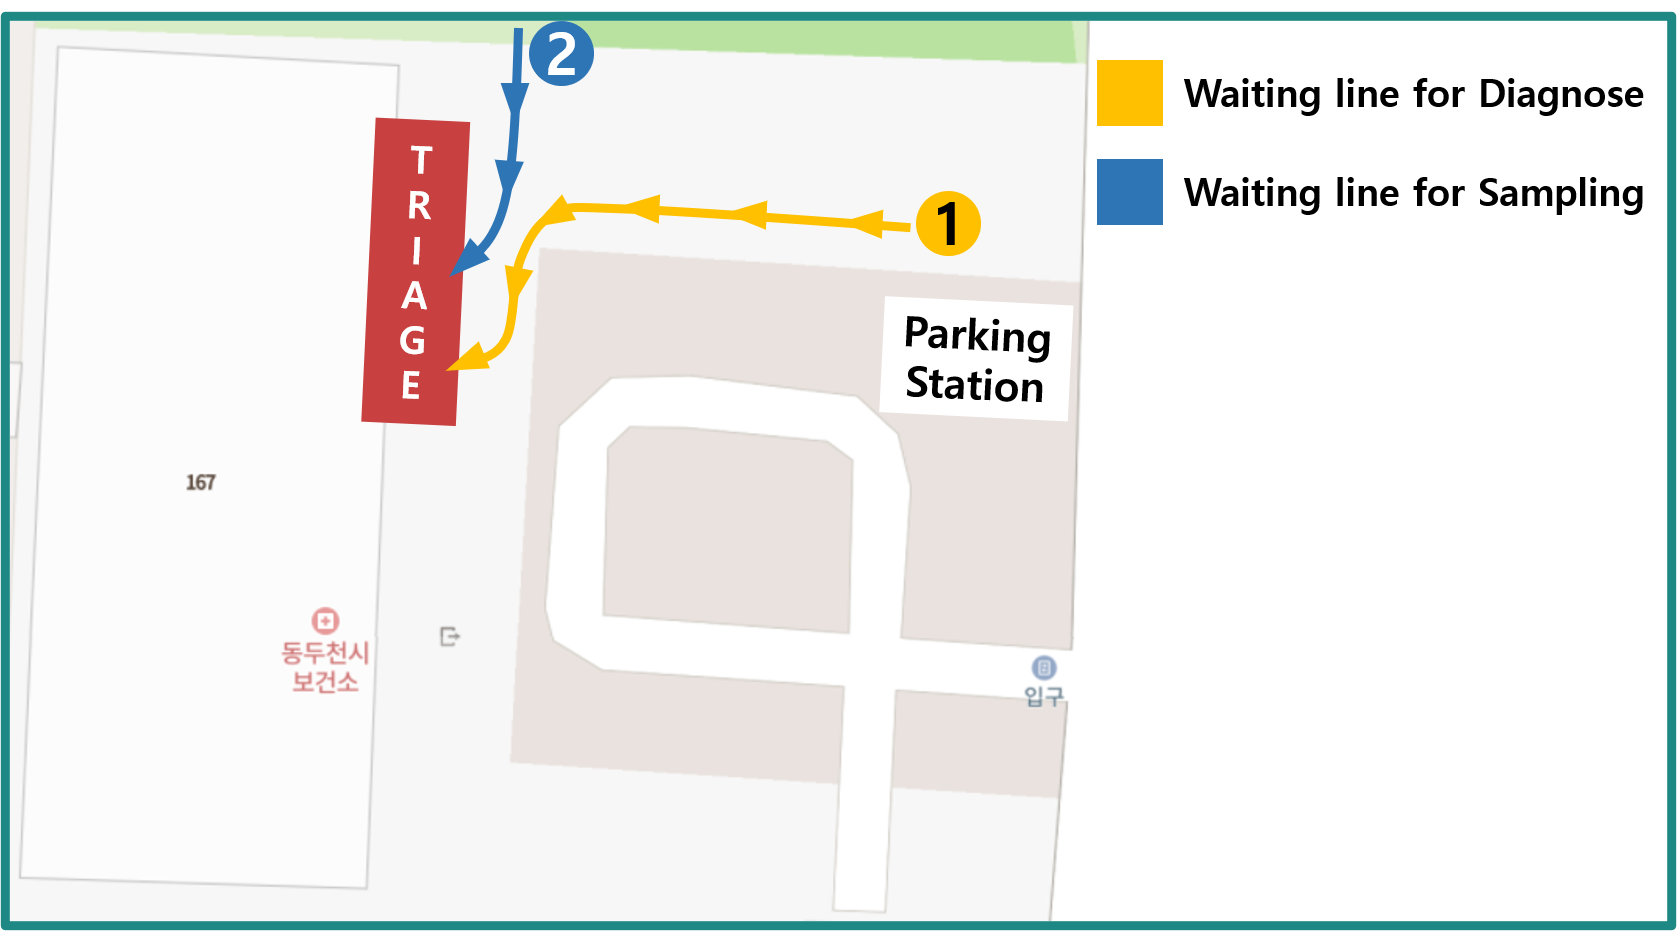
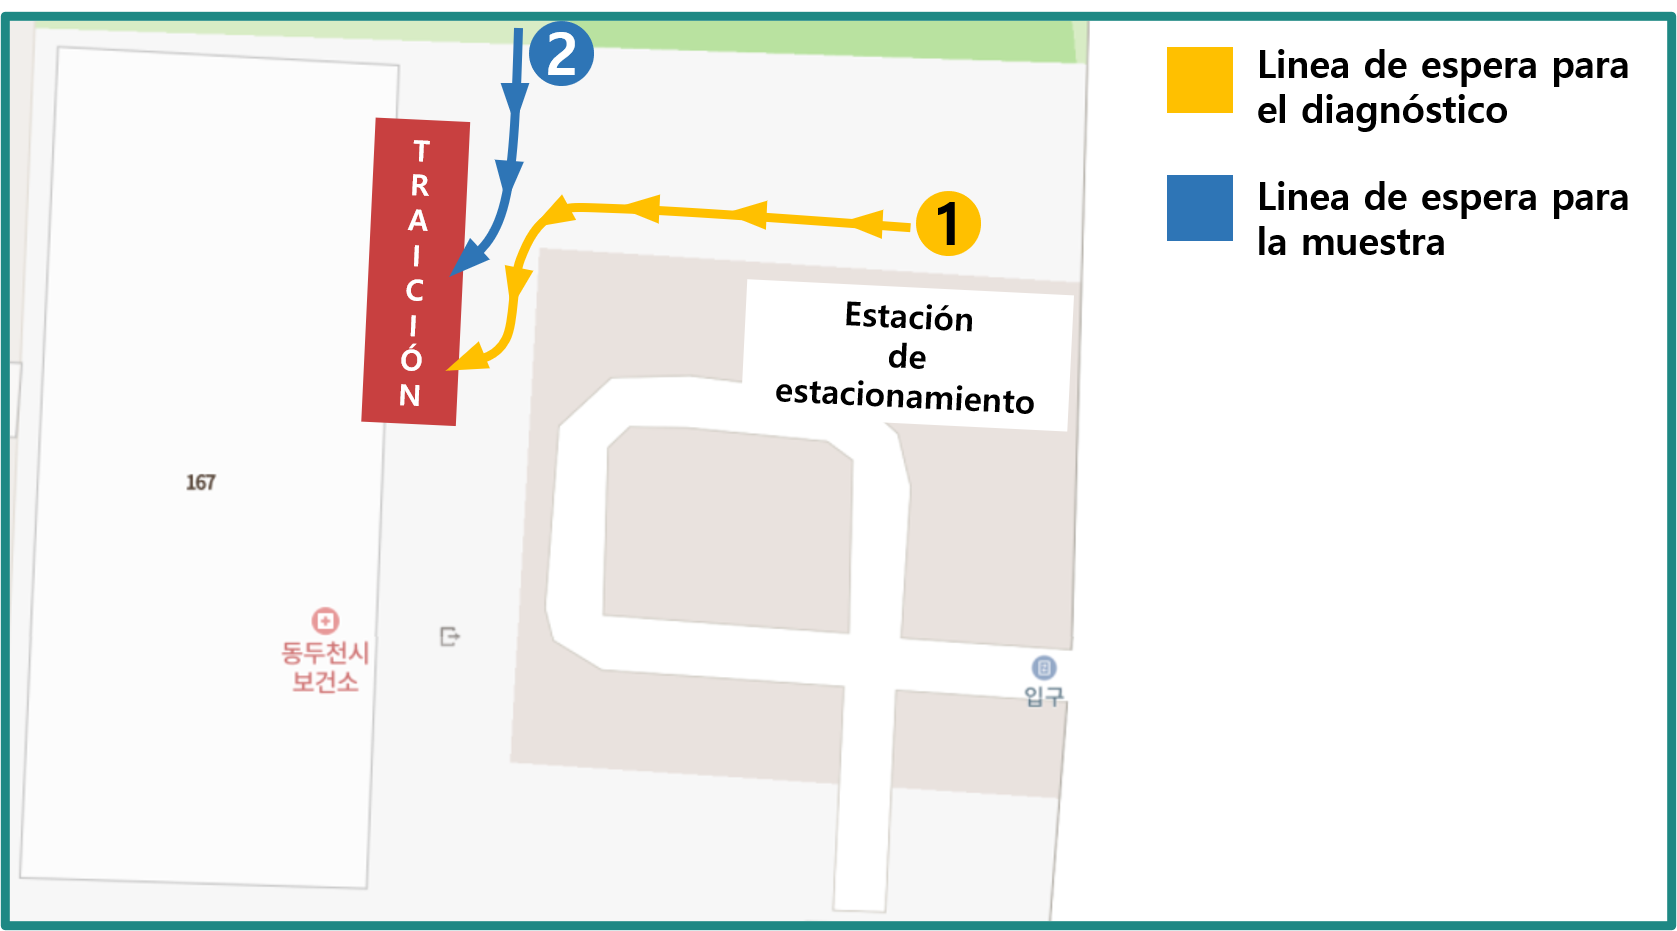
new Multi-lang : es

diff --git a/docs/es/covid-19/README.md b/docs/es/covid-19/README.md
@@ -1,100 +1,108 @@
-# Notice for COVID-19 Triage
+# Comunicación para el aborto COVID-19
 
-## Basic information and Precautions
+## Información básica y precauciones
 
-### Basic information
+### Información básica
 
-**Operating time** : Weekdays(MON~FRI) Morning(09:00~11:30) / Afternoon(13:00~17:30), Saturday 09:30~11:30
+**Tiempo de operación** : Días de semana (MON~FRI) Buenos días(09:00 -11:30) / Almuerzo(13:00 -17:30), sábado 09:30 -11:30
 
-> Control can be achieved depending on how many people are waiting before the end time and how many contacts have occurred.
-We recommend that you visit in advance for a smooth examination.
+> Se puede lograr el control dependiendo de cuántas personas están esperando antes del final del tiempo y de cuántos contactos se han producido.
+Le recomendamos que se visite por adelantado para un examen regular.
 
-**Location** : Dongducheon-si Health Care Center, 167, Jungang-ro, Dongducheon-si, Gyeonggi-do, Republic of Korea
+**¡Localización!** : Centro de Cuidados de Salud Dongducheon-si, 167, Jungang-ro, Dongducheon-si, Gyeonggi-do, República de Corea
 
-### Precautions
+> `eng address` Dongducheon-si Health Care Center, 167, Jungang-ro, Dongducheon-si, Gyeonggi-do, Republic of Korea
 
-- Please make sure to take the required items.
+### Cuidado
 
-- Please stand behind the yellow safety tape in the queue. (Social distancing)
+- Por favor, asegúrate de tomar los artículos necesarios.
 
-- Please visit in time for the operation.
+- Por favor, póngase detrás de la cinta amarilla de seguridad en la fila. (Distanciamiento social)
 
-## Required Items
+- Por favor, visite a tiempo para la operación.
 
-### ID card
+## Punto necesario
 
-In order to receive COVID-19 test, you must bring your **ID card**.  
+### Tarjeta de Identificación
 
-ID cards such as resident registration cards, *driver's license*, *passport*, *foreign registration card*, *Copy or Abstract of Certification of Resident Register*,  
-For students, *student ID* is also available.
+Para recibir el examen COVID-19, debe llevar su tarjeta **ID**.  
 
-For a child who doesn't have an ID yet, we need the child's social security number.
+tarjetas de identificación, como tarjetas de registro residencial, *licencia de conducir*, *passaporte*, *carta de registro extranjera*, *Copia o Abstracto de la certificación del registro de residentes*,  
+Para los estudiantes, también está disponible una identificación de estudiante.
 
-> Sometimes, people who come to the center by car submit their car registration certificate.
+Para un niño que aún no tiene identificación, necesitamos el número de seguridad social del niño.
 
-:::tip It doesn't have to be a real card.
-Just a picture of your ID card is also okay.
+> A veces, las personas que vienen al centro en auto presentan sus certificados de registro de auto.
+
+:::tip No tiene que ser una tarjeta de verdad.
+Una foto de tu tarjeta de identificación también está bien.
 :::
 
-### A Message or a log of contact
+### Un mensaje o un registro de contacto
 
-:::danger This applies to cases of close contact with COVID-19 confirmed patients or overlapping movements.
+:::danger Esto se aplica a casos de contacto estrecho con pacientes confirmados por COVID-19 o de sobrelazos de movimientos.
 
-- If you receive a message or contact that said 'You have to take COVID-19 test' from the health care center, or the other institution,
+- Si recibe un mensaje o contacto que diga "Tienes que hacer el examen COVID-19" del centro de salud, o de la otra institución,
 
-- Or if you are included of a message or contact 'If you visit (Place) at (Interval), take COVID-19 test at nearest health care center',  
+- O si está incluido en un mensaje o en el contacto 'Si visita (Plaza) en (Interval), haga el examen COVID-19 en el centro de salud más cercano',  
 
-You need to show me **the text message you received or the log of contact.**
+Tienes que mostrarme **el mensaje de texto que recibiste o el registro de contacto.**
 :::
 
-## the Method of Triage
+## el Método de Triage
 
 ![order](./order.png)
 
-1. **Diagnose** : When it's your turn, you can register and get diagnose.
+1. **Diagnosticar** : Cuando te toca, puedes registrarte y ser diagnosticado.
 
-    :::warning What will I do?
-    While diagnose, we will check some basic infromation for COVID-19 test.  
-    We can check your ID, the purpose of COVID-19 test(why you received it), and the underlying disease(disorder you have), etc.
+    :::warning ¿Qué voy a hacer?
+    Mientras diagnostiquemos, comprobaremos algunas información básica para el test COVID-19.  
+    Podemos comprobar su identificación, el propósito del examen COVID-19 (por qué lo recibió), y la enfermedad subyacente (perturbações que tienen), etc., etc.
     :::
 
-1. **Sampling** : Take some samples for COVID-19 test.
+1. **La muestra** : Toma algunas muestras para el examen COVID-19.
 
-### Inspection In Progress Precautions
+### Inspección en curso Prevenciones
 
-- Please follow the instructions.
+- Por favor sigan las instrucciones.
 
-- When you wait for Diagnose or Sampling, keep stand behind the yellow safety line. (Social distancing)
+- Cuando esperes a Diagnosar o a Sampling, mantenerte detrás de la línea de seguridad amarilla. (Distanciamiento social)
 
-- If you need, your guardian can accompany you to Diagnose or Sampling.
+- Si lo necesitas, tu tutor puede acompañarte a diagnosticar o a tomar muestras.
 
-## Costs
+## Costes
 
-The current Covid-19 test conducted by the health center is a **100% payroll test**.
-Therefore, no inspection costs are incurred.  
-Please note that **non-payment inspection**, which is paid at your own expense, is not being carried out.
+El examen actual Covid-19 realizado por el centro de salud es un examen de paga **100%**.
+Por lo tanto, no se sufre ningún coste de inspección.  
+Por favor, no se haga una inspección de no pago**, que se paga a sus propias expensas.
 
-## Verification documents
+## Documentos de verificación
 
-**There are no verification documents** that the COVID-19 test has been carried out,
-or a result sheet notifying the test result that it is positive or negative.
+**No hay documentos de verificación** de que se haya realizado el test COVID-19,
+o una hoja de resultados que notifique al resultado del examen que es positivo o negativo.
 
-:::details How can I check the result of test?
-We only service the result of test via text message.
+:::details ¿Cómo puedo comprobar el resultado del examen?
+Sólo servimos el resultado del examen por mensaje de texto.
 :::
 
-However, for students, we can sign the certificate if you bring it with you.
+Sin embargo, para los estudiantes, podemos firmar el certificado si lo traes contigo.
 
-If you need the document results for departure inspection,
-please visit a private hospital for inspection.
+Si necesita los resultados del documento para inspección de partida,
+por favor visite un hospital privado para inspección.
 
-:::details Private hospitals capable of COVID-19 testing:
-There is no private hospital in Dongducheon that conducts COVID-19 test. I recommend the following hospitals:
+:::details Hospitales privados capaces de hacer pruebas COVID-19:
+No hay ningún hospital privado en Dongducheon que lleve a cabo el examen COVID-19. Recomiendo los siguientes hospitales:
 
-- Yangju "Yes" hospital, 103, Hoejeong-ro, Yangju-si, Gyeonggi-do, Republic of Korea, ☎ 031-825-5000
+- El hospital Yangju "Sí", 103, Hoejeong-ro, Yangju-si, Gyeonggi-do, República de Corea, ☎ 031-825-5000
 
-- Uijeongbu "Baek" hospital, 322, Geumsin-ro, Uijeongbu-si, Gyeonggi-do, Republic of Korea, ☎ 031-856-8111
+  > `eng` Yangju "Yes" hospital, 103, Hoejeong-ro, Yangju-si, Gyeonggi-do, Republic of Korea
 
-- Uijeongbu "Choo" hospital, 650, Pyeonghwa-ro, Uijeongbu-si, Gyeonggi-do, Republic of Korea, ☎ 031-845-7777
+- El hospital de Uijeongbu "Baek", 322, Geumsin-ro, Uijeongbu-si, Gyeonggi-do, República de Corea, ☎ 031-856-8111
+
+  > `eng` Uijeongbu "Baek" hospital, 322, Geumsin-ro, Uijeongbu-si, Gyeonggi-do, Republic of Korea
+
+- El hospital de Uijeongbu "Choo", 650, Pyeonghwa-ro, Uijeongbu-si, Gyeonggi-do, República de Corea, ☎ 031-845-7777
+
+  > `eng` Uijeongbu "Choo" hospital, 650, Pyeonghwa-ro, Uijeongbu-si, Gyeonggi-do, Republic of Korea
 
 :::

diff --git a/docs/es/guide/README.md b/docs/es/guide/README.md
@@ -1,40 +1,42 @@
-# Introduction
+# Introducción
 
-Hello, this is Triage support team of Dongducheon City Health Center Center.  
-This page is created to inform you of the public notice related to the general affairs of triage and health centers during the Covid-19 response period.
+Hola, soy el equipo de apoyo Triage del Centro de Salud de Dongducheon.  
+Esta página es creada para informarles de la noticia pública relativa a los asuntos generales de los centros de triage y salud durante el período de respuesta Covid-19.
 
-See below to see where and what information you can find :smiley:
+Ver más abajo para ver dónde y qué información encontrará :smiley:
 
 ## Layouts of Home
 
-The layouts of [Home](../) is like this :
+Las [páginas principales](../) están las siguientes:
 
 ![layout-guide-01](./guide-rayout-01.png)
 
-1. Press the `COVID-19 Triage` button to go to the related information page.
+1. Presiona el botón `COVID-19 Triage` para ir a la página de información relacionada.
 
-1. Press the `How to use this page` button to go guide page(this page).
+1. Presiona el botón `Cómo usar esta página` para ir a la página guía (esta página).
 
-1. Press the `COVID-19 Triage` button at the right top to go to the related information page.
+1. Presiona el botón `COVID-19 Triage` en la parte derecha para ir a la página de información relacionada.
 
-    - It's the same button as button number 1.
+    - Es el mismo botón que el número 1.
 
-1. Press the `Other notice` button at the right top to go to the general business information page other than triage.
+1. Presiona el botón `Otro aviso` en la parte superior derecha para ir a la página general de información comercial que no sea la triagía.
 
-1. Press the `Sun mark` at the right top, you can change the theme to Dark-mode.
+1. Presiona la `Marca del Sol` en la parte derecha, puede cambiar el tema a Modo Oscuro.
 
-1. Via the `Languages` button at the right top, you can choose another language.
+1. A través del botón `Languías` en la parte superior derecha, se puede elegir otra lengua.
 
-1. By the `Search Box` at the right top, you can find some information on this page.
+1. En la `caja de búsqueda` en la parte superior derecha, se pueden encontrar algunas información en esta página.
 
-## List of Notice
+## Lista de la noticia
 
-This page provides following informations :
+Esta página ofrece las siguientes informaciones :
 
-- [Notice for COVID-19 Triage(test)](../covid-19/) `Preparation`, `Inspection Method/Time`, `Operation Time`
+- [Comunicación para el tratamiento COVID-19(test)](../covid-19/) `Preparación`, `Método de inspección/Tiempo`, `Tiempo de operación`
 
-- [Other general notice](../other/) `General thing`
+- [Aviso a otros generales](../other/) `Lo general`
 
-  - @Main building `Health certification` `Oral-health business` `Various rental business`
+  - @El edificio principal `los negocios Oral-health` `Diversos negocios de alquiler`
 
-  - @Annex `Dementia relief center`
+  - @Anexo `Centro de La Demencia`
+
+  - Trabajo temporalmente suspendido `Certificación sanitaria`

diff --git a/docs/es/README.md b/docs/es/README.md
@@ -1,21 +1,21 @@
 ---
 home: true
-heroImage: image/logo-en.png
-heroAlt: DDC health care center COVID-19 triage boooth logo img
-tagline: Notice for COVID-19 Triage booth and other related business of health care center
+heroImage: image/logo-es.png
+heroAlt: Centro de atención de salud de DDC COVID-19 logotipo de trío img
+tagline: Comunicación para la cabina de triage COVID-19 y otras actividades relacionadas del centro de atención de salud
 actions:
-  - text: COVID-19 Triage
-    link: /en/covid-19/
+  - text: Trujamiento COVID-19
+    link: /es/covid-19/
     type: primary
   - text: Page Usage
-    link: /en/guide/
+    link: /es/guide/
     type: secondary
 features:
-  - title: COVID-19 Triage
-    details: In this category, you can check what you need for the test, and how the test goes.
-  - title: Other businesses
-    details: You also can check other businesses related to DDC Health Center.
-  - title: Inquiries, Requests.
-    details: If you have any inquiries or requests, please ask the maintainer below.
-footer: MIT Licensed | Copyright © 2021 hajun-myoung | maintainer Donghun, Lee | lastUpdated @2021.7.9-20:42
+  - title: Trujamiento COVID-19
+    details: En esta categoría, puedes comprobar lo que necesitas para el examen y cómo va el examen.
+  - title: Otras empresas
+    details: También puedes revisar otras empresas relacionadas con el Centro de Salud de DDC.
+  - title: Infracciones, peticiones.
+    details: Si tiene alguna pregunta o petición, por favor pregunte al Mantenedor.
+footer: Licenciado MIT | El derecho de autor © 2021 hajun-myoung | Mantenedor Donghun, Lee | Última Actualización @2021.7.9-20:42
 ---

diff --git a/docs/es/other/health-certification.md b/docs/es/other/health-certification.md
@@ -1,15 +1,19 @@
-# Health certification
+# Certificación sanitaria
 
-:::danger Currently, the work related to the health certificate has been temporarily suspended.
-As COVID-19 infections continue and social distancing levels rise,
-all work related to health certificates has been temporarily suspended.
+:::danger Actualmente, el trabajo relacionado con el certificado de salud ha sido suspendido temporalmente.
+A medida que continúan las infecciones por COVID-19 y aumentan los niveles de distancia social,
+todo trabajo relacionado con los certificados de salud ha sido suspendido temporalmente.
 :::
 
-## Private hospitals
+## Hospitales privados
 
-If you need health examination results(health certification),
-you can apply or issue it at the following private hospitals:
+Si necesitas resultados de exámenes de salud (certificación de salud),
+pueden solicitarlo o emitirlo en los siguientes hospitales privados:
 
-- Dongducheon "Joongang Seongmo" hospital, 53, Donggwang-ro, Dongducheon-si, Gyeonggi-do, Republic of Korea, ☎031-863-0550
+- Hospital Dongducheon "Joongang Seongmo", 53, Donggwang-ro, Dongducheon-si, Gyeonggi-do, República de Corea, ☎031-863-0550
 
-- Yangju "Yes" hospital, 103, Hoejeong-ro, Yangju-si, Gyeonggi-do, Republic of Korea, ☎031-825-5000
+  > `eng` Dongducheon "Joongang Seongmo" hospital, 53, Donggwang-ro, Dongducheon-si, Gyeonggi-do, Republic of Korea
+
+- Hospital Yangju "Sí", 103, Hoejeong-ro, Yangju-si, Gyeonggi-do, República de Corea, ☎031-825-5000
+
+  > `eng` Yangju "Yes" hospital, 103, Hoejeong-ro, Yangju-si, Gyeonggi-do, Republic of Korea

diff --git a/docs/es/other/oral-health-care.md b/docs/es/other/oral-health-care.md
@@ -1,17 +1,17 @@
-# Oral health care business
+# Asistencia médica oral
 
-**Operating dates** : Every Tuesday, Morning 09:30~11:30 / Afternoon 13:30~17:30
+**Días de operación** : Cada martes, mañana 09:30 -11:30 /Abuena 13:30 -17:30
 
-## Services
+## Servicios de Servicios
 
-If you visit the health center every Tuesday, you can get a toothbrush and fluoride solution.  
+Si visita el centro de salud cada martes, puede conseguir un cepillo de dientes y una solución de fluoruro.  
 
-- One toothbrush every two months, Each family member.
+- Cada dos meses, cada miembro de la familia.
 
-  - You can choose strong wool / soft wool.
+  - Tú puedes elegir de lana fuerte / de lana suave.
   
-- Only one fluorine solution is provided per household. If you use it all, you can get it again at the health center.
+- Sólo una solución para el flúor se ofrece por hogar.Si la usas bien, ¿puedo hacerlo de nuevo en el eenter la salud.
 
-:::warning When you refilling the fluorine solution,
-Please bring the fluorine solution container you received for the first time.
+:::warning Cuando rellenas la solución de fluor,
+Por favor traiga el contenedor de solución de fluor que recibió por primera vez.
 :::

diff --git a/docs/es/other/dementia-center.md b/docs/es/other/dementia-center.md
@@ -1,11 +1,11 @@
-# Visit Dementia relief center
+# Visita al centro de ayuda de Demenia
 
-Those who want to visit the dementia relief center and work related to dementia should visit the health center annex.
+Quienes quieran visitar el centro de ayuda a la demencia y trabajar relacionado con la demencia deben visitar el anexo del centro de salud.
 
-## Location and way to go
+## Forma y lugar de irse
 
 ![Annex-location](./dementia-center-posi.png)
 
-:::danger Route 1(the way through the center) has been blocked by the COVID-19
-Please use route 2(the way back to the pharmacy) to go Annex.
+:::danger La ruta 1 (la vía a través del centro) ha sido bloqueada por la COVID-19
+Por favor, usen la ruta 2 (la vuelta a la farmacia) para ir al Anexo.
 :::

diff --git a/docs/es/guide/contact.md b/docs/es/guide/contact.md
@@ -1,11 +1,11 @@
-# Inquiries, Requests
+# Encargos, Pedidos
 
-If you have any inquiries or requests, please ask the maintainer below.
+Si tiene alguna pregunta o petición, por favor pregunte al responsable.
 
-**Maintainer** : Donghun, Lee, Health care center, Dongducheon-si.
+**Mantenedor** : Donghun, Lee, Centro de atención médica, Dongducheon-si.
 
-## Request for page creation
+## Solicitud para la creación de la página
 
-If you'd like to request the create a page of the same page like this one,
-please refer to
+Si te gustaría solicitar el crear una página de la misma página como ésta,
+por favor, remételo a
 ["# Contact Me | 연락처"](https://github.com/hajun-myoung/covid-19-notice#contact-me--%EC%97%B0%EB%9D%BD%EC%B2%98)

diff --git a/docs/es/other/README.md b/docs/es/other/README.md
@@ -1,12 +1,12 @@
-# Other businesses
+# Otras empresas
 
-While the COVID-19 Triage booth is operating,
-Other businesses run by the DDC health center are:
+Mientras la cabina de Triage COVID-19 está funcionando,
+Otras empresas dirigidas por el centro de salud de DDC son:
 
-- [Dementia relief center(Annex)](./dementia-center.html)
+- [Centro de ayuda de la demencia(Anexo)](./dementia-center.html)
 
-- [Oral-health business](./oral-health-care.html)
+- [Asuntos de salud oral](./oral-health-care.html)
 
-- [Health certification](./health-certification.html)
+- [Certificación sanitaria](./health-certification.html)
 
-- [Various rental business](./various-rental-service.html)
+- [los negocios de la renta](./various-rental-service.html)

diff --git a/docs/es/other/various-rental-service.md b/docs/es/other/various-rental-service.md
@@ -1,11 +1,11 @@
-# Various rental services
+# Varios servicios de alquiler
 
-## Blood glucose meter free lending business
+## Medidor de glucosa en sangre de libre concesión de créditos
 
-You have to make a reservation and visit the blood glucose meter for free.
+Tiene que hacer una reserva y visitar el contador de glicemia gratis.
 
 ![blood-glucose-meter-poster](./blood-sugar-poster.jpg)
 
-## Rental businesses for breast pump
+## Empresas de alquiler para la bomba de pecho
 
-If you visit the health center and tell the control officer, I'll connect you with the officer in charge.
+Si visita al centro de salud y le dice al oficial de control, te conectaré con el oficial encargado.
